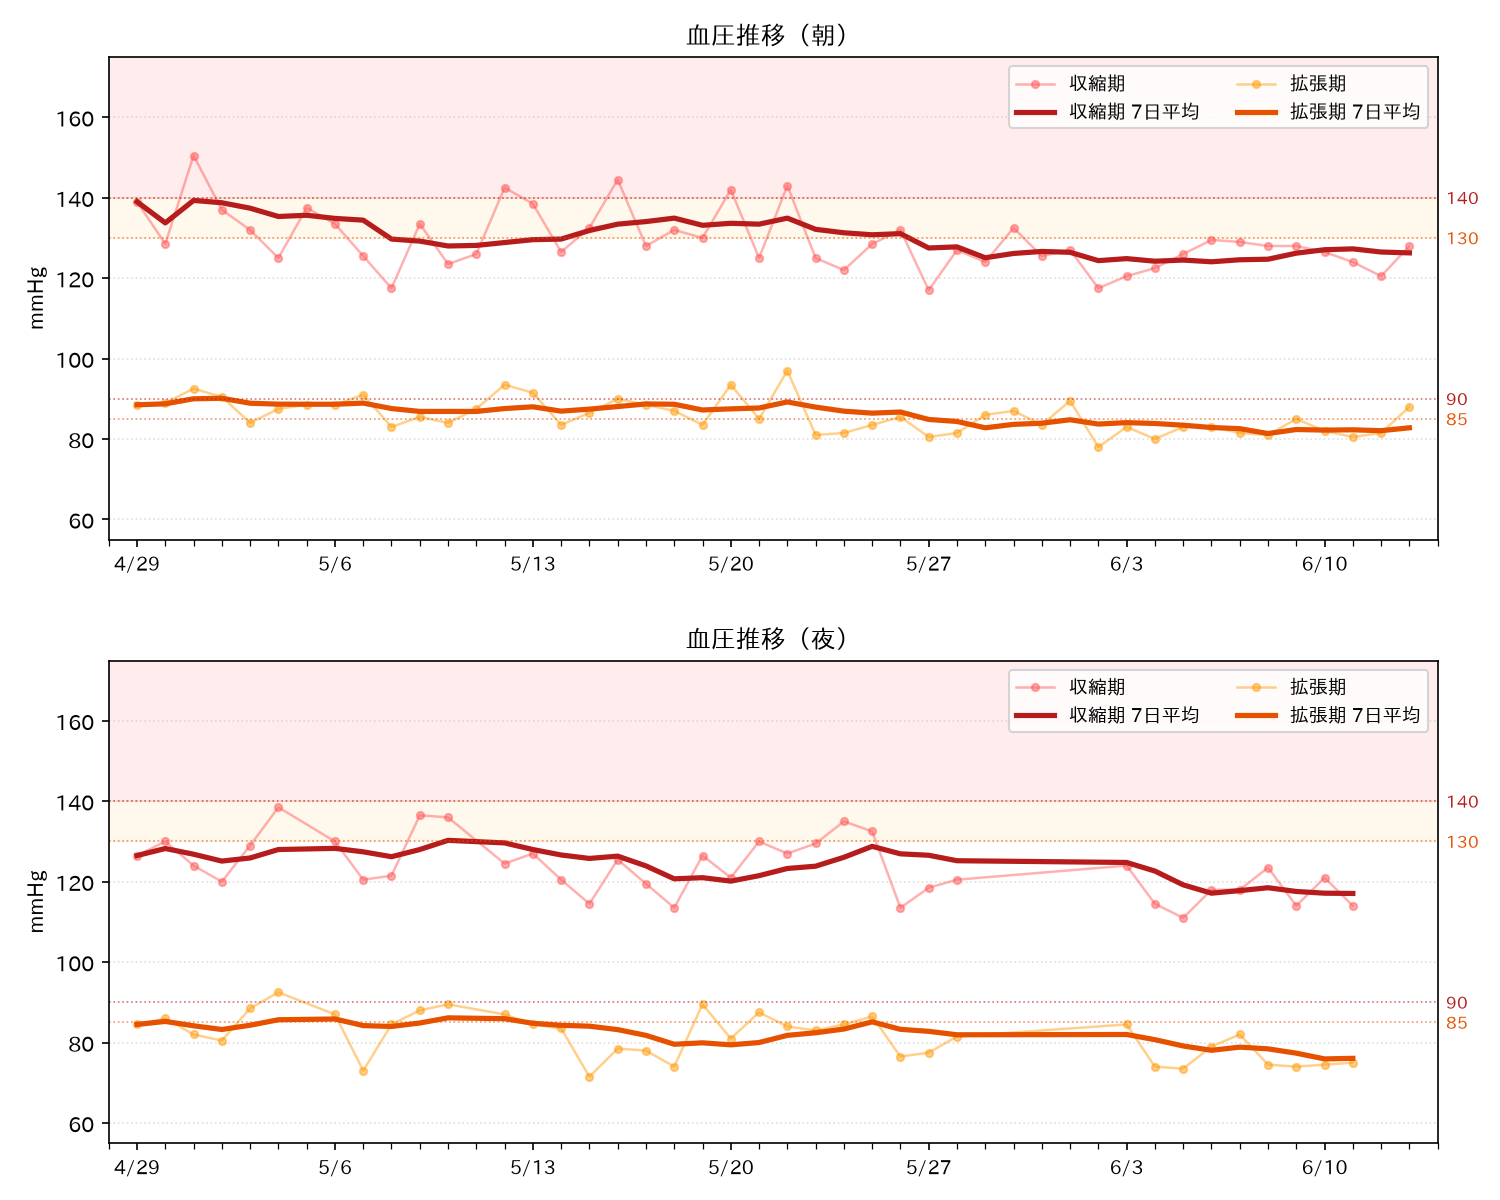
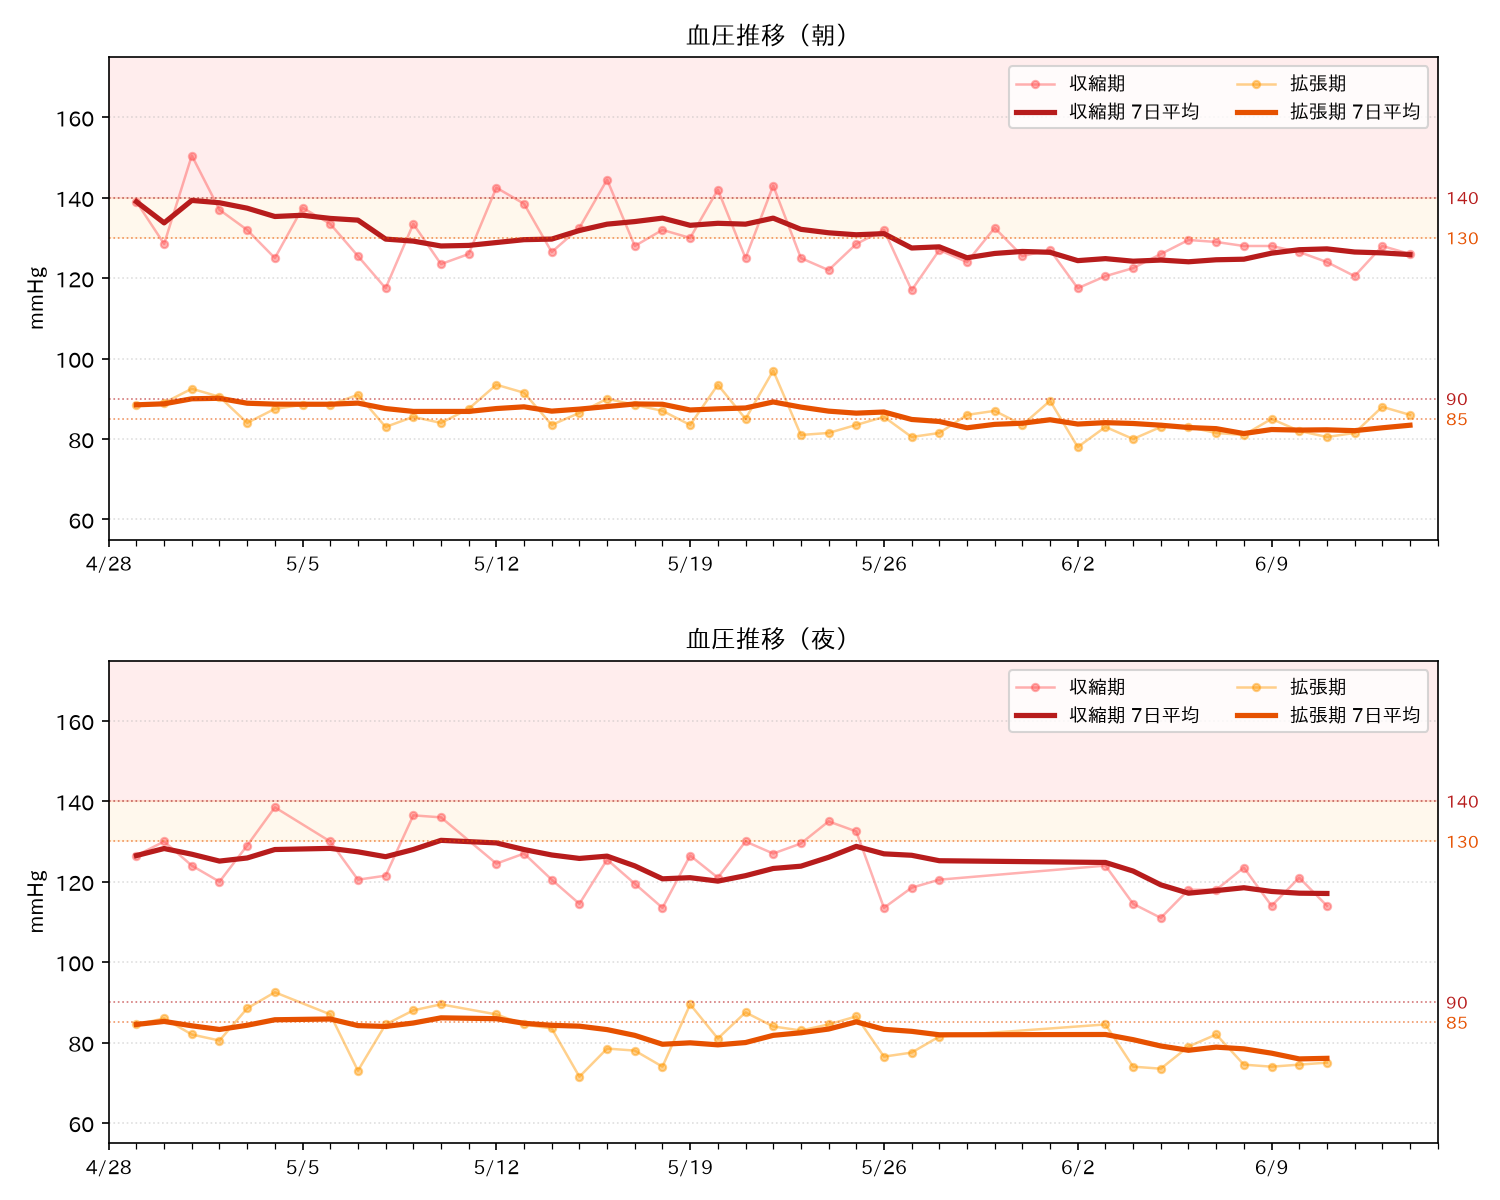
Update health report [skip ci]

diff --git a/README.md b/README.md
@@ -35,19 +35,19 @@
 
 | 項目 | 結果 |
 |---|---|
-| 最新日平均血圧 | 128.0/88.0 mmHg |
+| 最新日平均血圧 | 126.0/86.0 mmHg |
 | 判定 | 注意: やや高めです |
-| 朝の血圧 | 平均 129.4/85.8 mmHg　直近 128.0/88.0 mmHg　注意（やや高め） |
+| 朝の血圧 | 平均 129.4/85.8 mmHg　直近 126.0/86.0 mmHg　注意（やや高め） |
 | 夜の血圧 | 平均 123.5/81.5 mmHg　直近 114.0/75.0 mmHg　良好 |
 | 朝夜差 | 収縮期差（朝－夜）: +5.9 mmHg　朝夜差は正常範囲内（収縮期差 +5.9 mmHg） |
-| 脈拍状態 | 良好: 直近の脈拍 67.5 bpm（正常範囲） |
+| 脈拍状態 | 良好: 直近の脈拍 71.0 bpm（正常範囲） |
 | 脈拍異常記録 | 2026-06-09 night / 106.0 bpm / ⚠ 頻脈 |
-| CPAP着用率 | 41/46日 (89%) （記録46日分） |
-| CPAP着用時 朝収縮期平均 | 128.4 mmHg |
+| CPAP着用率 | 42/47日 (89%) （記録47日分） |
+| CPAP着用時 朝収縮期平均 | 128.3 mmHg |
 | CPAP未着用時 朝収縮期平均 | 138.1 mmHg |
-| CPAP有無の影響 | 未着用時がやや高い傾向 (+9.7 mmHg) |
-| 体重×血圧 相関 | 収縮期: 0.59<br>拡張期: 0.59<br>⚠ 体重増加と血圧上昇が連動している可能性があります |
-| 体重増→血圧上昇検出 | 体重: +1.00 kg<br>収縮期血圧: +4.5 mmHg<br>拡張期血圧: +6.2 mmHg<br>⚠ アラート: 体重増加に伴い血圧も上昇しています<br>対策候補: 塩分、外食、夜食、飲酒、睡眠不足を確認 |
+| CPAP有無の影響 | 未着用時がやや高い傾向 (+9.8 mmHg) |
+| 体重×血圧 相関 | 収縮期: 0.57<br>拡張期: 0.55<br>⚠ 体重増加と血圧上昇が連動している可能性があります |
+| 体重増→血圧上昇検出 | 体重: -1.40 kg<br>収縮期血圧: +0.2 mmHg<br>拡張期血圧: +8.2 mmHg<br>明確な連動はありません |
 | 外食・夜食間食（直近7日） | 外食 12回 / 夜食・間食 2回（直近7日・記録7日分） |
 
 <!-- HEALTH_ANALYSIS_END -->

diff --git a/reports/health_analysis.md b/reports/health_analysis.md
@@ -2,17 +2,17 @@
 
 | 項目 | 結果 |
 |---|---|
-| 最新日平均血圧 | 128.0/88.0 mmHg |
+| 最新日平均血圧 | 126.0/86.0 mmHg |
 | 判定 | 注意: やや高めです |
-| 朝の血圧 | 平均 129.4/85.8 mmHg　直近 128.0/88.0 mmHg　注意（やや高め） |
+| 朝の血圧 | 平均 129.4/85.8 mmHg　直近 126.0/86.0 mmHg　注意（やや高め） |
 | 夜の血圧 | 平均 123.5/81.5 mmHg　直近 114.0/75.0 mmHg　良好 |
 | 朝夜差 | 収縮期差（朝－夜）: +5.9 mmHg　朝夜差は正常範囲内（収縮期差 +5.9 mmHg） |
-| 脈拍状態 | 良好: 直近の脈拍 67.5 bpm（正常範囲） |
+| 脈拍状態 | 良好: 直近の脈拍 71.0 bpm（正常範囲） |
 | 脈拍異常記録 | 2026-06-09 night / 106.0 bpm / ⚠ 頻脈 |
-| CPAP着用率 | 41/46日 (89%) （記録46日分） |
-| CPAP着用時 朝収縮期平均 | 128.4 mmHg |
+| CPAP着用率 | 42/47日 (89%) （記録47日分） |
+| CPAP着用時 朝収縮期平均 | 128.3 mmHg |
 | CPAP未着用時 朝収縮期平均 | 138.1 mmHg |
-| CPAP有無の影響 | 未着用時がやや高い傾向 (+9.7 mmHg) |
-| 体重×血圧 相関 | 収縮期: 0.59<br>拡張期: 0.59<br>⚠ 体重増加と血圧上昇が連動している可能性があります |
-| 体重増→血圧上昇検出 | 体重: +1.00 kg<br>収縮期血圧: +4.5 mmHg<br>拡張期血圧: +6.2 mmHg<br>⚠ アラート: 体重増加に伴い血圧も上昇しています<br>対策候補: 塩分、外食、夜食、飲酒、睡眠不足を確認 |
+| CPAP有無の影響 | 未着用時がやや高い傾向 (+9.8 mmHg) |
+| 体重×血圧 相関 | 収縮期: 0.57<br>拡張期: 0.55<br>⚠ 体重増加と血圧上昇が連動している可能性があります |
+| 体重増→血圧上昇検出 | 体重: -1.40 kg<br>収縮期血圧: +0.2 mmHg<br>拡張期血圧: +8.2 mmHg<br>明確な連動はありません |
 | 外食・夜食間食（直近7日） | 外食 12回 / 夜食・間食 2回（直近7日・記録7日分） |
